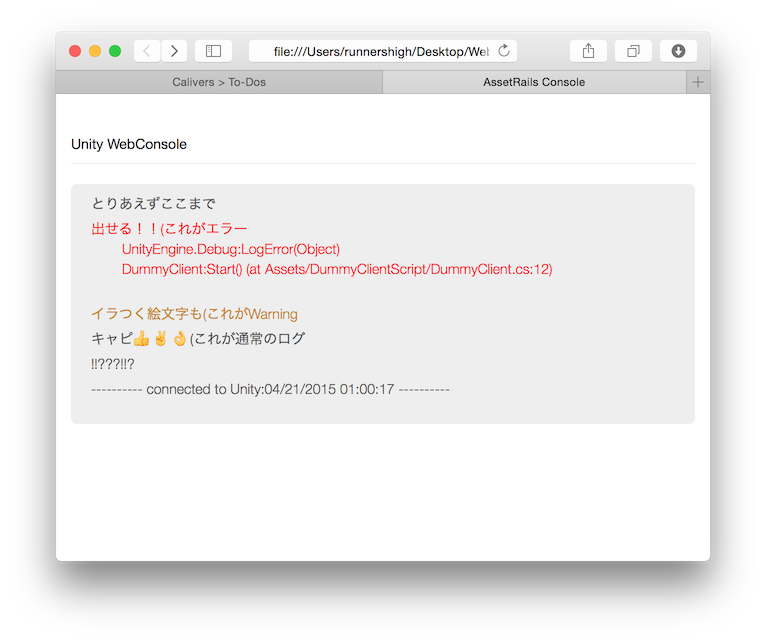
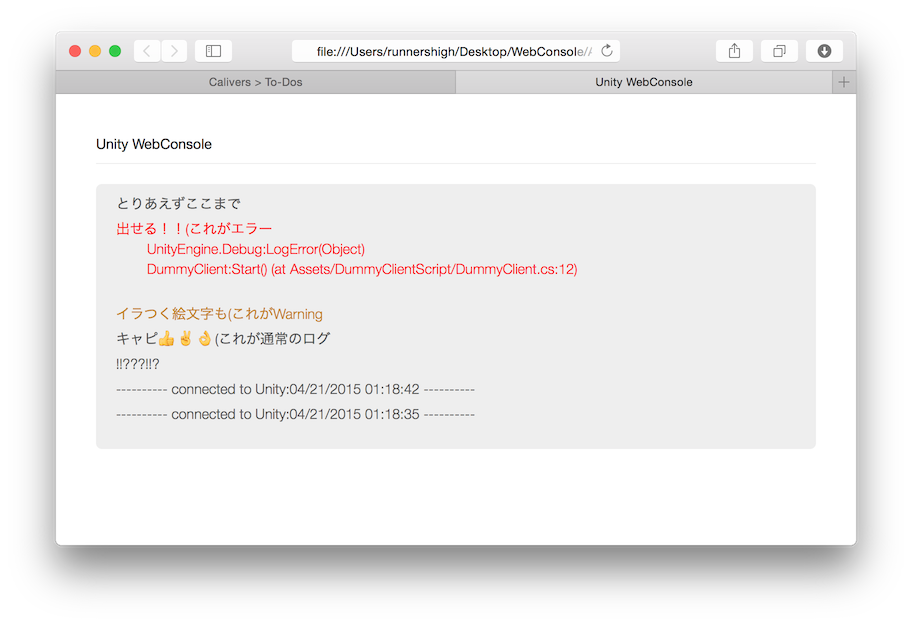
update image & README

Changed region(s): [[0.0601, 0.0608, 0.9608, 0.8816], [0.1201, 0.304, 0.7206, 0.6688]]

diff --git a/Assets/WebConsole/console.html b/Assets/WebConsole/console.html
@@ -1,7 +1,7 @@
 <!DOCTYPE html>
 <html lang="fr" xmlns="http://www.w3.org/1999/xhtml">
 	<head>
-		<title>AssetRails Console</title>
+		<title>Unity WebConsole</title>
 		<meta charset="UTF-8" />
 		<link href="https://maxcdn.bootstrapcdn.com/bootstrap/3.3.1/css/bootstrap.min.css" rel="stylesheet">
 		<script src="https://ajax.googleapis.com/ajax/libs/jquery/1.11.1/jquery.min.js"></script>

diff --git a/README.md b/README.md
@@ -6,7 +6,9 @@ show Unity Editor's console logs to browser.
 
 
 ##usage:
-copy Assets/WebConsole folder to your project. That's all.
+1. Copy Assets/WebConsole folder to your project. 
+2. Open Assets/WebConsole/console.html
+3. That's all.
 
 ##!caution!
 every logs will send to browser synchronously.
